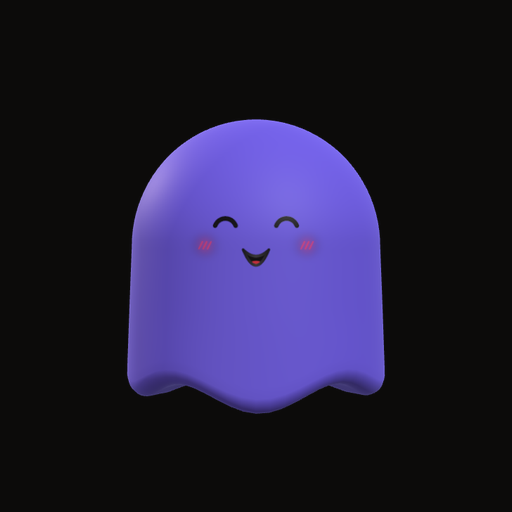
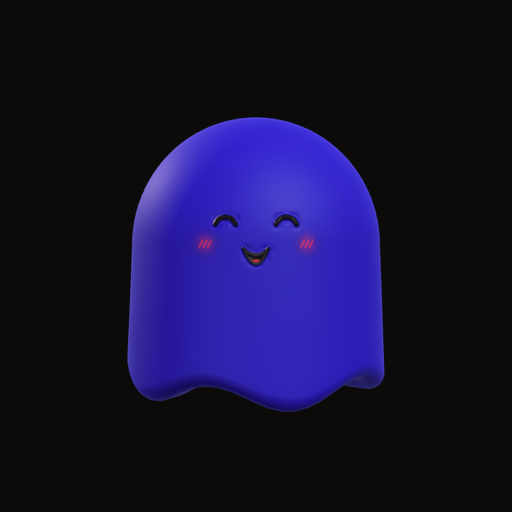
Brand color #2b15d1 (0.5.0)
New default body color and site accent. Favicon, app icons, OG images
(v3 / docs v2), README banner and posters regenerated. The auto face
threshold moves so the default keeps its black face.

Changed region(s): [[0.25, 0.2188, 0.75, 0.8125]]

diff --git a/apps/site/app/docs/page.tsx b/apps/site/app/docs/page.tsx
@@ -10,7 +10,7 @@ const DOCS_DESCRIPTION =
 const DOCS_OG_DESCRIPTION = "Install moodi, then pick a shape, a mood and a color. React, Web Component or CDN.";
 // Versioned like the home image: link previews cache by URL. Regenerate from /og/docs.
 const DOCS_OG_IMAGE = {
-  url: "/opengraph-docs-v1.png",
+  url: "/opengraph-docs-v2.png",
   width: 1200,
   height: 630,
   type: "image/png",
@@ -112,7 +112,7 @@ export default function DocsPage() {
           </div>
           <div>
             <h3 className="mb-2 text-[14px] text-muted">Web Component</h3>
-            <Code>{`<moodi-buddy shape="ghost" mood="happy" color="#6c5ce7" size="160"></moodi-buddy>
+            <Code>{`<moodi-buddy shape="ghost" mood="happy" color="#2b15d1" size="160"></moodi-buddy>
 <script type="module">import 'moodi';</script>`}</Code>
           </div>
           <div>

diff --git a/packages/moodi/src/core/constants.ts b/packages/moodi/src/core/constants.ts
@@ -17,7 +17,7 @@ export interface MoodiProps {
   shape?: Shape;
   /** Current mood / state. Default `'idle'`. */
   mood?: Mood;
-  /** Body color, any CSS color. Default `'#6c5ce7'`. */
+  /** Body color, any CSS color. Default `'#2b15d1'`. */
   color?: string;
   /** Eyes / mouth color. Auto-contrast by default. */
   faceColor?: string;
@@ -73,7 +73,7 @@ export const MOODS: readonly Mood[] = [
 export const DEFAULTS = {
   shape: 'ghost' as Shape,
   mood: 'idle' as Mood,
-  color: '#6c5ce7',
+  color: '#2b15d1',
   size: 160 as number | string,
   speed: 1,
   followCursor: true,
@@ -84,7 +84,7 @@ export const DEFAULTS = {
 };
 
 export const PALETTES: Readonly<Record<string, string>> = {
-  Iris: '#6c5ce7',
+  Iris: '#2b15d1',
   Peach: '#f2a07b',
   Sage: '#8fb996',
   Sky: '#8ec5e8',

diff --git a/apps/site/app/docs/parts.tsx b/apps/site/app/docs/parts.tsx
@@ -7,7 +7,7 @@ import { Moodi, MOOD_INFO, MOODS, PALETTES, SHAPE_LABELS, SHAPES } from "moodi/r
 const PROPS: [prop: string, attr: string, type: string, def: string, desc: string][] = [
   ["shape", "shape", SHAPES.map((s) => `'${s}'`).join(" | "), "'ghost'", "Body shape."],
   ["mood", "mood", "Mood", "'idle'", "Current state. Changes are interpolated, never instant."],
-  ["color", "color", "string", "'#6c5ce7'", "Body color, any CSS color."],
+  ["color", "color", "string", "'#2b15d1'", "Body color, any CSS color."],
   ["faceColor", "face-color", "string", "auto", "Eyes and mouth. Auto-contrasts with the body."],
   ["cheekColor", "cheek-color", "string", "auto", "Blush. Derived from the body color."],
   ["size", "size", "number | string", "160", "px number or any CSS length."],

diff --git a/apps/site/app/og/readme/page.tsx b/apps/site/app/og/readme/page.tsx
@@ -6,7 +6,7 @@ export const metadata: Metadata = { title: "README banner", robots: { index: fal
 /** README banner (.github/assets/readme.png): happy, black face, red cheeks. Screenshot at 1200×630. */
 export default function ReadmeCard() {
   return (
-    <div className="relative flex h-[630px] w-[1200px] items-center overflow-hidden bg-bg" style={{ ["--accent" as string]: "#6c5ce7" }}>
+    <div className="relative flex h-[630px] w-[1200px] items-center overflow-hidden bg-bg" style={{ ["--accent" as string]: "#2b15d1" }}>
       <div className="stage-glow absolute right-[40px] top-1/2 size-[760px] -translate-y-1/2" />
       <div className="relative z-10 pl-[96px]">
         <div className="text-[112px] font-semibold leading-none tracking-[-0.05em]">moodi</div>

diff --git a/apps/site/app/og/docs/page.tsx b/apps/site/app/og/docs/page.tsx
@@ -6,7 +6,7 @@ export const metadata: Metadata = { title: "Docs card", robots: { index: false }
 /** 1200×630 source for public/opengraph-docs-v<N>.png (bump N in app/docs/page.tsx). */
 export default function DocsCard() {
   return (
-    <div className="relative flex h-[630px] w-[1200px] items-center overflow-hidden bg-bg" style={{ ["--accent" as string]: "#6c5ce7" }}>
+    <div className="relative flex h-[630px] w-[1200px] items-center overflow-hidden bg-bg" style={{ ["--accent" as string]: "#2b15d1" }}>
       <div className="stage-glow absolute right-[40px] top-1/2 size-[760px] -translate-y-1/2" />
       <div className="relative z-10 pl-[96px]">
         <div className="flex items-baseline gap-5">

diff --git a/packages/moodi/src/core/color.ts b/packages/moodi/src/core/color.ts
@@ -46,8 +46,8 @@ const INK: RGB = [0.07, 0.06, 0.08];
 const CREAM: RGB = [209 / 255, 190 / 255, 173 / 255];
 const ROSE: RGB = [1, 0.42, 0.48];
 
-/** Near-black on most bodies (the default Iris included), latte only on very dark ones like Ink. */
-export const autoFace = (body: RGB): RGB => (luminance(body) > 0.06 ? mix(INK, body, 0.06) : CREAM);
+/** Near-black on most bodies (the default #2b15d1 included), latte only on very dark ones like Ink. */
+export const autoFace = (body: RGB): RGB => (luminance(body) > 0.042 ? mix(INK, body, 0.06) : CREAM);
 
 /** Blush that sits naturally on the body color. */
 export const autoCheek = (body: RGB): RGB => mix(body, ROSE, 0.78);

diff --git a/apps/site/app/og/page.tsx b/apps/site/app/og/page.tsx
@@ -9,7 +9,7 @@ export const metadata: Metadata = { title: "OG card", robots: { index: false } }
  */
 export default function OgCard() {
   return (
-    <div className="relative flex h-[630px] w-[1200px] items-center overflow-hidden bg-bg" style={{ ["--accent" as string]: "#6c5ce7" }}>
+    <div className="relative flex h-[630px] w-[1200px] items-center overflow-hidden bg-bg" style={{ ["--accent" as string]: "#2b15d1" }}>
       <div className="stage-glow absolute right-[40px] top-1/2 size-[760px] -translate-y-1/2" />
       <div className="relative z-10 pl-[96px]">
         <div className="text-[112px] font-semibold leading-none tracking-[-0.05em]">moodi</div>

diff --git a/apps/site/app/test/shapes-test.tsx b/apps/site/app/test/shapes-test.tsx
@@ -40,7 +40,7 @@ const ROWS: Row[] = [
     name: "Ghost",
     description: "The default shape. A wavy hem and a floating body: the classic little ghost.",
     method: "react",
-    color: "#6c5ce7",
+    color: "#2b15d1",
     colorName: "Iris",
     mood: "happy",
     sound: true,
@@ -254,7 +254,7 @@ function SettleDemo() {
   };
 
   return (
-    <article className="row settle-demo" style={{ "--c": "#6c5ce7" } as CSSProperties}>
+    <article className="row settle-demo" style={{ "--c": "#2b15d1" } as CSSProperties}>
       <div className="row-text">
         <p className="method">
           <span className="method-dot method-react" aria-hidden />

diff --git a/packages/moodi/test/color.test.ts b/packages/moodi/test/color.test.ts
@@ -4,7 +4,7 @@ import { DEFAULTS, isMood, isShape, MOODS, PALETTES, SHAPES } from '../src/core/
 
 describe('color', () => {
   it('parses hex without a browser', () => {
-    expect(parseColor('#6c5ce7', [0, 0, 0])).toEqual([0x6c / 255, 0x5c / 255, 0xe7 / 255]);
+    expect(parseColor('#2b15d1', [0, 0, 0])).toEqual([0x2b / 255, 0x15 / 255, 0xd1 / 255]);
     expect(parseColor('fff', [0, 0, 0])).toEqual([1, 1, 1]);
     expect(parseColor(undefined, [0.1, 0.2, 0.3])).toEqual([0.1, 0.2, 0.3]);
   });

diff --git a/apps/site/app/not-found.tsx b/apps/site/app/not-found.tsx
@@ -10,7 +10,7 @@ export default function NotFound() {
       <div
         aria-hidden
         className="stage-glow pointer-events-none absolute left-1/2 top-[42%] aspect-square w-[min(90vw,620px)] -translate-x-1/2 -translate-y-1/2"
-        style={{ ["--accent" as string]: "#6c5ce7" }}
+        style={{ ["--accent" as string]: "#2b15d1" }}
       />
       <div className="relative flex flex-col items-center">
         <Moodi mood="error" size={240} loading="eager" aria-label="moodi: error" />

diff --git a/apps/site/app/test/page.tsx b/apps/site/app/test/page.tsx
@@ -9,7 +9,7 @@ const youngSerif = Young_Serif({ subsets: ["latin"], weight: "400", variable: "-
 const DESCRIPTION =
   "Every moodi shape loaded three ways (React, Web Component, CDN), plus a live example: a mood picker, a chat and a waitlist form.";
 const OG_IMAGE = {
-  url: "/opengraph-docs-v1.png",
+  url: "/opengraph-docs-v2.png",
   width: 1200,
   height: 630,
   type: "image/png",

diff --git a/apps/site/components/color-picker.tsx b/apps/site/components/color-picker.tsx
@@ -305,7 +305,7 @@ export function ColorPicker({
         />
       </button>
       {anchor && (
-        <Panel value={normalizeHex(value ?? base) ?? "#6c5ce7"} label={label} onChange={onChange} onClose={close} anchor={anchor} />
+        <Panel value={normalizeHex(value ?? base) ?? "#2b15d1"} label={label} onChange={onChange} onClose={close} anchor={anchor} />
       )}
     </>
   );
